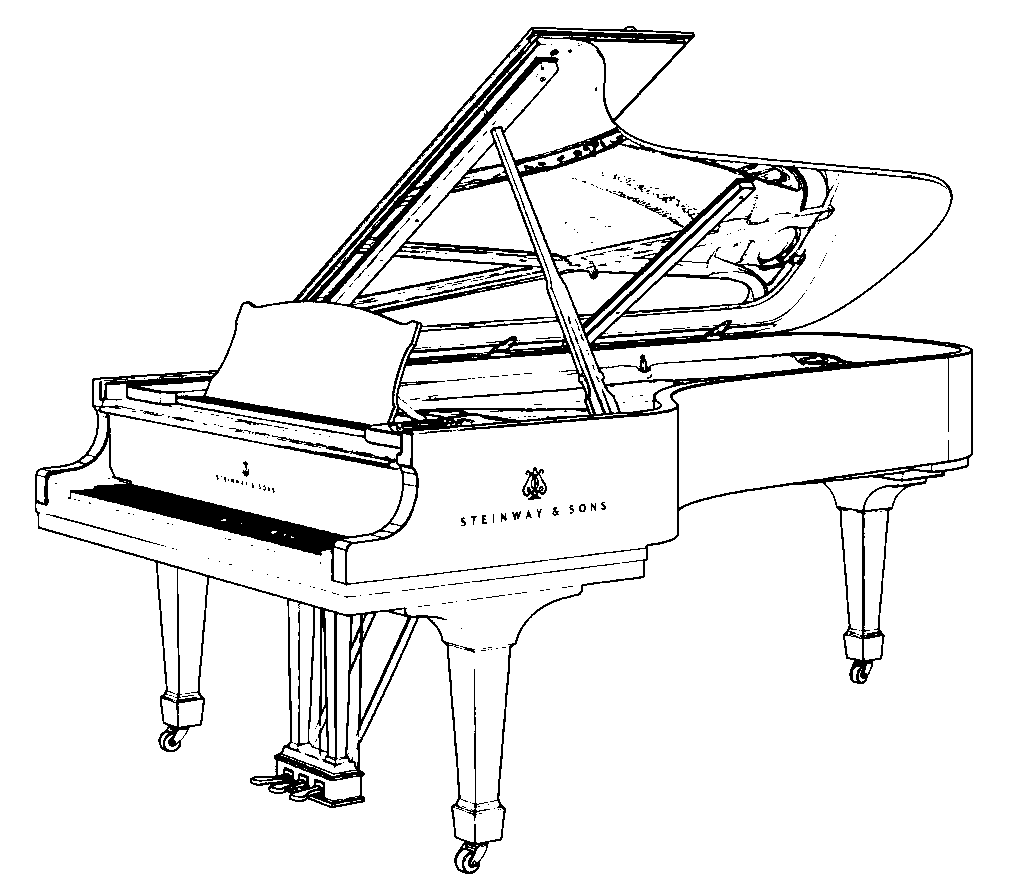
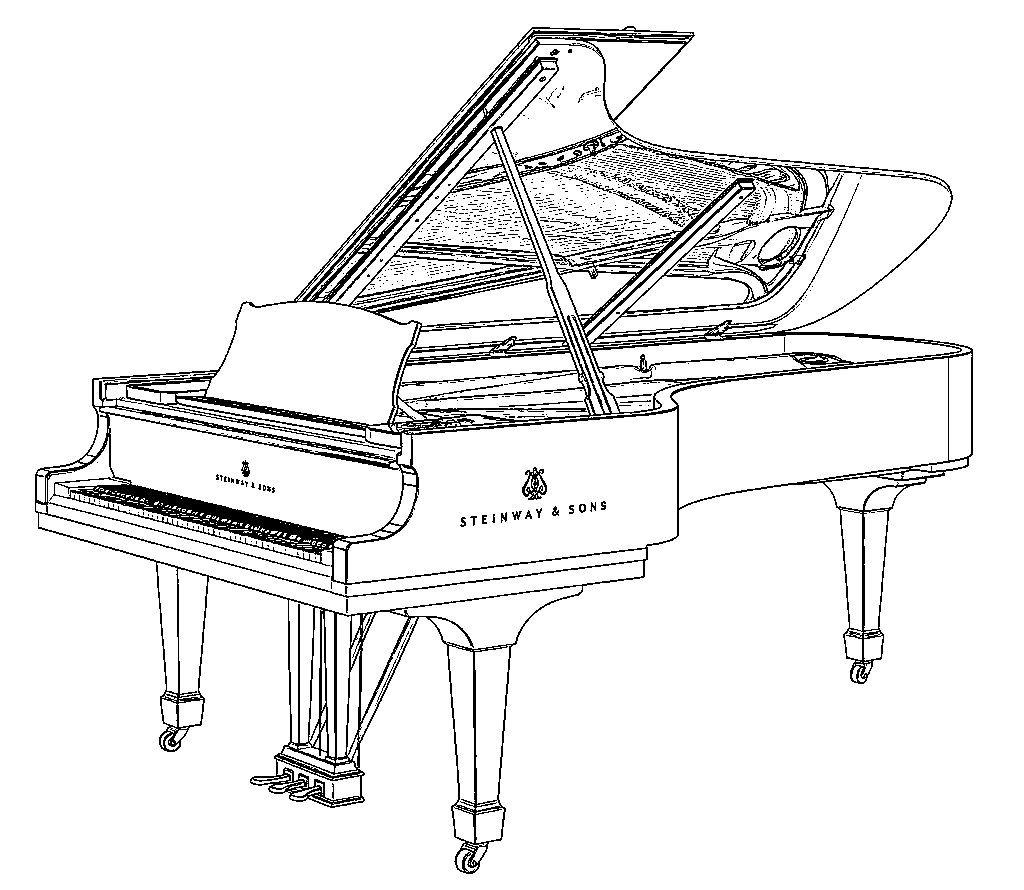
Tweak piano backdrop size, position, and keyboard line clarity.
Move slightly left, scale down, and sharpen keyboard region in line art.

diff --git a/src/styles/theme.css b/src/styles/theme.css
@@ -241,10 +241,10 @@
 
 .about-piano-backdrop {
   position: absolute;
-  right: -6%;
+  right: 2%;
   bottom: 1.5rem;
-  width: min(74vw, 1020px);
-  height: min(88vh, 940px);
+  width: min(64vw, 900px);
+  height: min(78vh, 820px);
   pointer-events: none;
 }
 
@@ -254,7 +254,7 @@
   height: 100%;
   object-fit: contain;
   object-position: right bottom;
-  opacity: 0.34;
+  opacity: 0.36;
 }
 
 .dark .about-piano-backdrop img {